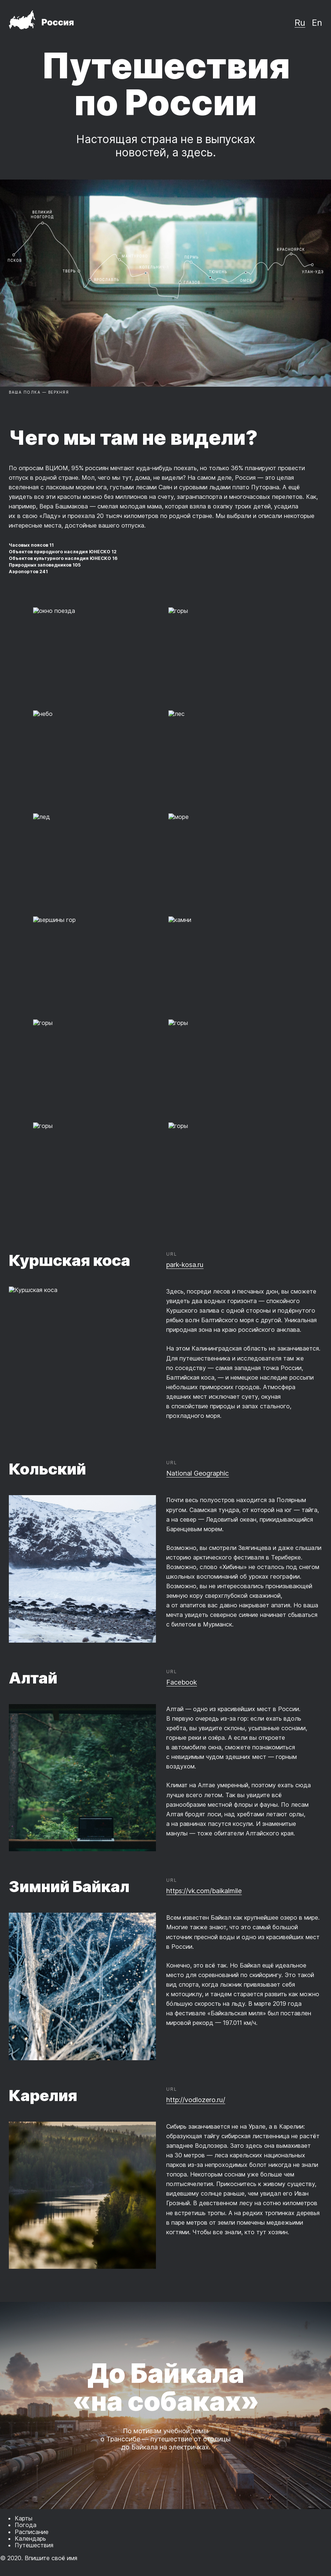
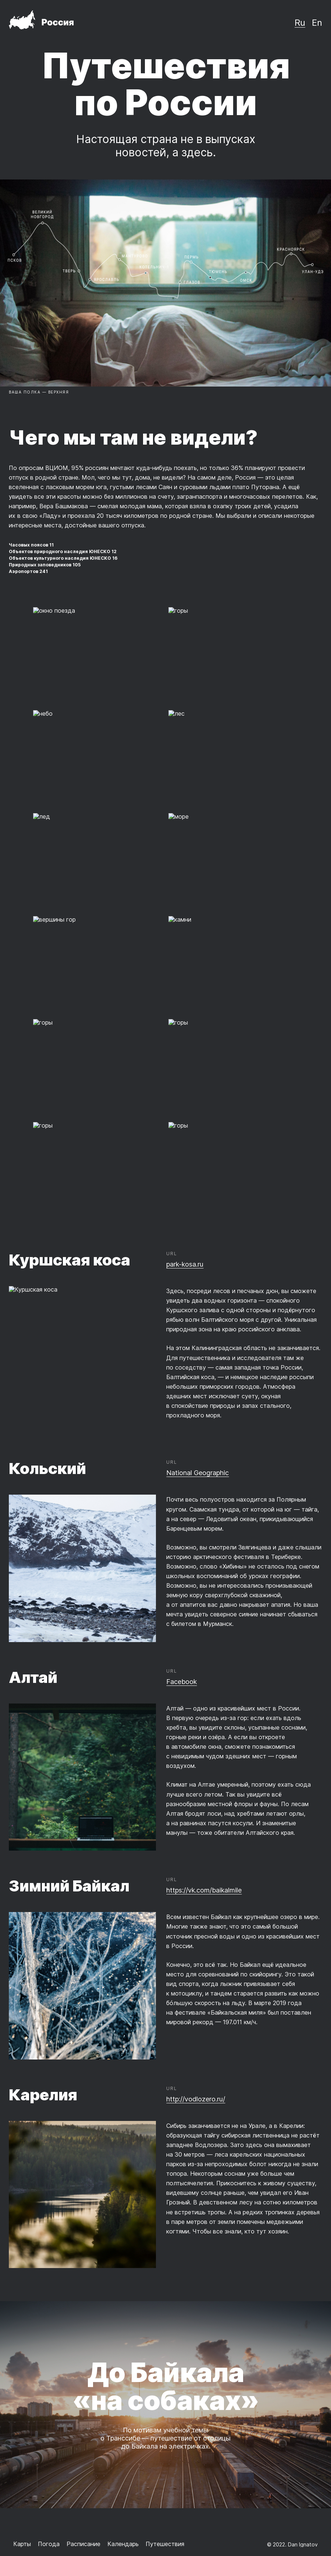
Add footer (#23)
* Layout 1

* Layout footer

* Remove empty class

* Set dynamic footer margins and width

* My Name

* Limit max text width by ellipsis in footer

* Add screenshot tests

* Add tests

* Add footer screenshots for testcafe

* Add footer storybook stories

Changed region(s): [[0.0, 0.4996, 1.0, 0.9991], [0.0, 0.0312, 1.0, 0.2498], [0.0311, 0.4683, 0.4044, 0.4996]]

diff --git a/tests-storybook/footer.stories.js b/tests-storybook/footer.stories.js
@@ -1,0 +1,90 @@
+import { createStorybookConfigByWidth } from './utils/utils.js';
+
+export default {
+  title: 'Footer',
+}
+
+const Template = () => {
+  const result = document.createElement('div');
+  result.className = 'page';
+  result.innerHTML = `
+    <div class="page__content">
+      <footer class="page__footer footer">
+        <nav class="footer__navigation">
+          <ul class="footer__links">
+            <li class="footer__link">
+              <a class="link" href="">Карты</a>
+            </li>
+            <li class="footer__link">
+              <a class="link" href="">Погода</a>
+            </li>
+            <li class="footer__link">
+              <a class="link" href="">Расписание</a>
+            </li>
+            <li class="footer__link">
+              <a class="link" href="">Календарь</a>
+            </li>
+            <li class="footer__link">
+              <a class="link" href="">Путешествия</a>
+            </li>
+          </ul>
+        </nav>
+        <p class="footer__author">© 2022. Dan Ignatov</p>
+      </footer>
+    </div>
+  `;
+
+  return result;
+};
+
+const TemplateLongTexts = () => {
+  const result = document.createElement('div');
+  result.className = 'page';
+  result.innerHTML = `
+    <div class="page__content">
+      <footer class="page__footer footer">
+        <nav class="footer__navigation">
+          <ul class="footer__links">
+            <li class="footer__link">
+              <a class="link" href="">Карты Карты Карты Карты Карты Карты Карты Карты</a>
+            </li>
+            <li class="footer__link">
+              <a class="link" href="">Погода</a>
+            </li>
+            <li class="footer__link">
+              <a class="link" href="">Расписание Расписание Расписание</a>
+            </li>
+            <li class="footer__link">
+              <a class="link" href="">Календарь</a>
+            </li>
+          </ul>
+        </nav>
+        <p class="footer__author">© 2022. Dan Ignatov Dan Ignatov Dan Ignatov Dan Ignatov</p>
+      </footer>
+    </div>
+  `;
+
+  return result;
+};
+
+const storybookConfig = createStorybookConfigByWidth(Template);
+
+export const Width_320 = storybookConfig.Width_320;
+export const Width_480 = storybookConfig.Width_480;
+export const Width_768 = storybookConfig.Width_768;
+export const Width_900 = storybookConfig.Width_900;
+export const Width_1024 = storybookConfig.Width_1024;
+export const Width_1080 = storybookConfig.Width_1080;
+export const Width_1280 = storybookConfig.Width_1280;
+export const Width_1440 = storybookConfig.Width_1440;
+
+const storybookLongTextsConfig = createStorybookConfigByWidth(TemplateLongTexts);
+
+export const Width_320_LongTexts = storybookLongTextsConfig.Width_320;
+export const Width_480_LongTexts = storybookLongTextsConfig.Width_480;
+export const Width_768_LongTexts = storybookLongTextsConfig.Width_768;
+export const Width_900_LongTexts = storybookLongTextsConfig.Width_900;
+export const Width_1024_LongTexts = storybookLongTextsConfig.Width_1024;
+export const Width_1080_LongTexts = storybookLongTextsConfig.Width_1080;
+export const Width_1280_LongTexts = storybookLongTextsConfig.Width_1280;
+export const Width_1440_LongTexts = storybookLongTextsConfig.Width_1440;

diff --git a/index.html b/index.html
@@ -270,21 +270,32 @@
 
         <section class="page__cover cover">
           <p class="cover__title">До&nbsp;Байкала &laquo;на&nbsp;собаках&raquo;</p>
-          <p class="cover__subtitle">По&nbsp;мотивам учебной темы о&nbsp;Транссибе&nbsp;&mdash; путешествие от&nbsp;столицы до&nbsp;Байкала на&nbsp;электричках.</p>
+          <p class="cover__subtitle">По&nbsp;мотивам учебной темы о&nbsp;Транссибе&nbsp;&mdash;
+            путешествие от&nbsp;столицы до&nbsp;Байкала на&nbsp;электричках.</p>
         </section>
       </main>
 
-      <footer class="footer">
-        <nav>
-          <ul>
-            <li>Карты</li>
-            <li>Погода</li>
-            <li>Расписание</li>
-            <li>Календарь</li>
-            <li>Путешествия</li>
+      <footer class="page__footer footer">
+        <nav class="footer__navigation">
+          <ul class="footer__links">
+            <li class="footer__link">
+              <a class="link" href="">Карты</a>
+            </li>
+            <li class="footer__link">
+              <a class="link" href="">Погода</a>
+            </li>
+            <li class="footer__link">
+              <a class="link" href="">Расписание</a>
+            </li>
+            <li class="footer__link">
+              <a class="link" href="">Календарь</a>
+            </li>
+            <li class="footer__link">
+              <a class="link" href="">Путешествия</a>
+            </li>
           </ul>
         </nav>
-        <p>© 2020. Впишите своё имя</p>
+        <p class="footer__author">© 2022. Dan Ignatov</p>
       </footer>
     </div>
   </div>

diff --git a/tests-testcafe/section-pages/footer.html b/tests-testcafe/section-pages/footer.html
@@ -1,0 +1,43 @@
+<!DOCTYPE html>
+<html lang="ru">
+
+<head>
+  <meta charset="UTF-8">
+  <meta name="viewport" content="width=device-width, initial-scale=1.0">
+  <link rel="stylesheet" href="../../pages/index.css">
+  <title>Путешествия по России</title>
+  <meta name="description" content="This site shows several places in Russia.">
+  <meta name="keywords" content="russia travel">
+  <meta name="author" content="Dan Ignatov">
+</head>
+
+<body>
+  <div class="page">
+    <div class="page__content">
+      <footer class="page__footer footer">
+        <nav class="footer__navigation">
+          <ul class="footer__links">
+            <li class="footer__link">
+              <a class="link" href="">Карты</a>
+            </li>
+            <li class="footer__link">
+              <a class="link" href="">Погода</a>
+            </li>
+            <li class="footer__link">
+              <a class="link" href="">Расписание</a>
+            </li>
+            <li class="footer__link">
+              <a class="link" href="">Календарь</a>
+            </li>
+            <li class="footer__link">
+              <a class="link" href="">Путешествия</a>
+            </li>
+          </ul>
+        </nav>
+        <p class="footer__author">© 2022. Dan Ignatov</p>
+      </footer>
+    </div>
+  </div>
+</body>
+
+</html>

diff --git a/pages/index.css b/pages/index.css
@@ -23,6 +23,7 @@
 @import url(../blocks/page/__photo-grid/page__photo-grid.css);
 @import url(../blocks/page/__places/page__places.css);
 @import url(../blocks/page/__cover/page__cover.css);
+@import url(../blocks/page/__footer/page__footer.css);
 
 @import url(../blocks/lead/lead.css);
 @import url(../blocks/lead/__title/lead__title.css);
@@ -54,3 +55,11 @@
 @import url(../blocks/cover/cover.css);
 @import url(../blocks/cover/cover__title.css);
 @import url(../blocks/cover/cover__subtitle.css);
+
+@import url(../blocks/footer/footer.css);
+@import url(../blocks/footer/__navigation/footer__navigation.css);
+@import url(../blocks/footer/__links/footer__links.css);
+@import url(../blocks/footer/__link/footer__link.css);
+@import url(../blocks/footer/__author/footer__author.css);
+
+@import url(../blocks/link/link.css);

diff --git a/blocks/page/__footer/page__footer.css b/blocks/page/__footer/page__footer.css
@@ -1,0 +1,28 @@
+.page__footer {
+  margin: 64px 16px 0;
+}
+
+@media screen and (min-width: 768px) {
+  .page__footer {
+    margin-top: 88px;
+    margin-left: 24px;
+    margin-right: 24px;
+  }
+}
+
+@media screen and (min-width: 768px) {
+  .page__footer {
+    margin-top: 88px;
+    margin-left: calc((100% - 768px) * (48 - 24) / (1024 - 768) + 24px);
+    margin-right: calc((100% - 768px) * (48 - 24) / (1024 - 768) + 24px);
+  }
+}
+
+@media screen and (min-width: 1024px) {
+  .page__footer {
+    margin-top: 92px;
+    margin-left: auto;
+    margin-right: auto;
+    max-width: calc(100% - 2 * 48px);
+  }
+}

diff --git a/blocks/footer/__link/footer__link.css b/blocks/footer/__link/footer__link.css
@@ -1,0 +1,25 @@
+.footer__link {
+  color: inherit;
+  text-decoration: none;
+
+  text-overflow: ellipsis;
+  white-space: nowrap;
+  overflow: hidden;
+  width: 100%;
+
+  font-weight: 400;
+  font-size: 24px;
+  line-height: 24px;
+  /* identical to box height, or 100% */
+}
+
+
+@media screen and (min-width: 768px) {
+  .footer__link {
+    width: auto;
+
+    font-size: 16px;
+    line-height: 18px;
+    /* identical to box height, or 112% */
+  }
+}

diff --git a/tests-testcafe/1024/index-tests_1024.js b/tests-testcafe/1024/index-tests_1024.js
@@ -38,3 +38,8 @@ test.page`../section-pages/cover.html`(`Cover screenshot test 1024`, async t => 
   await t.resizeWindow(1024, 1000);
   await t.expect(await compareScreenshot(t, 'cover_1024.png')).ok();
 });
+
+test.page`../section-pages/footer.html`(`Footer screenshot test 1024`, async t => {
+  await t.resizeWindow(1024, 100);
+  await t.expect(await compareScreenshot(t, 'footer_1024.png')).ok();
+});

diff --git a/tests-testcafe/1080/index-tests_1080.js b/tests-testcafe/1080/index-tests_1080.js
@@ -38,3 +38,8 @@ test.page`../section-pages/cover.html`(`Cover screenshot test 1080`, async t => 
   await t.resizeWindow(1080, 1000);
   await t.expect(await compareScreenshot(t, 'cover_1080.png')).ok();
 });
+
+test.page`../section-pages/footer.html`(`Footer screenshot test 1080`, async t => {
+  await t.resizeWindow(1080, 100);
+  await t.expect(await compareScreenshot(t, 'footer_1080.png')).ok();
+});

diff --git a/tests-testcafe/1280/index-tests_1280.js b/tests-testcafe/1280/index-tests_1280.js
@@ -38,3 +38,8 @@ test.page`../section-pages/cover.html`(`Cover screenshot test 1280`, async t => 
   await t.resizeWindow(1280, 1000);
   await t.expect(await compareScreenshot(t, 'cover_1280.png')).ok();
 });
+
+test.page`../section-pages/footer.html`(`Footer screenshot test 1280`, async t => {
+  await t.resizeWindow(1280, 100);
+  await t.expect(await compareScreenshot(t, 'footer_1280.png')).ok();
+});

diff --git a/tests-testcafe/1440/index-tests_1440.js b/tests-testcafe/1440/index-tests_1440.js
@@ -38,3 +38,8 @@ test.page`../section-pages/cover.html`(`Cover screenshot test 1440`, async t => 
   await t.resizeWindow(1440, 1000);
   await t.expect(await compareScreenshot(t, 'cover_1440.png')).ok();
 });
+
+test.page`../section-pages/footer.html`(`Footer screenshot test 1440`, async t => {
+  await t.resizeWindow(1440, 100);
+  await t.expect(await compareScreenshot(t, 'footer_1440.png')).ok();
+});

diff --git a/blocks/footer/__author/footer__author.css b/blocks/footer/__author/footer__author.css
@@ -1,0 +1,22 @@
+.footer__author {
+  margin: 0;
+
+  text-align: start;
+  text-overflow: ellipsis;
+  white-space: nowrap;
+  overflow: hidden;
+  width: 100%;
+
+  font-weight: 400;
+  font-size: 14px;
+  line-height: 14px;
+  /* identical to box height, or 100% */
+}
+
+@media screen and (min-width: 768px) {
+  .footer__author {
+    text-align: end;
+    flex-grow: 0;
+    flex-basis: 200px;
+  }
+}

diff --git a/tests-testcafe/320/index-tests_320.js b/tests-testcafe/320/index-tests_320.js
@@ -38,3 +38,8 @@ test.page`../section-pages/cover.html`(`Cover screenshot test 320`, async t => {
   await t.resizeWindow(320, 1000);
   await t.expect(await compareScreenshot(t, 'cover_320.png')).ok();
 });
+
+test.page`../section-pages/footer.html`(`Footer screenshot test 320`, async t => {
+  await t.resizeWindow(320, 100);
+  await t.expect(await compareScreenshot(t, 'footer_320.png')).ok();
+});
